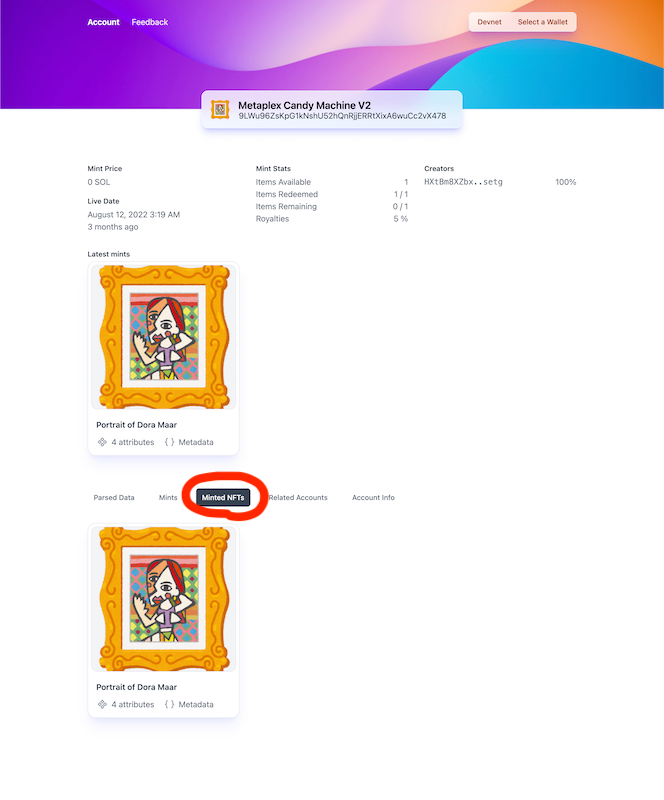
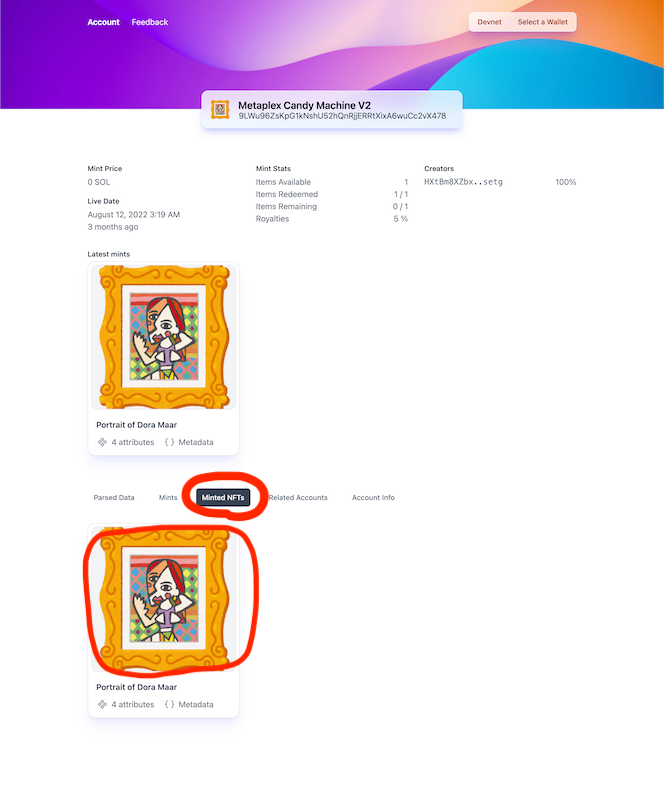
docs: add command

Changed region(s): [[0.1205, 0.6562, 0.3916, 0.875]]

diff --git a/cli/metaplex_sugar/README.md b/cli/metaplex_sugar/README.md
@@ -11,8 +11,53 @@ Mint NFT(s) CLI Tools by Metaplex.
 ## Run
 It's depend on version of Sugar. Check README at each directory.
 
-Sugar doesn't show mint address. Look at mint address in Signature. e.g.  
-![sample mint](https://github.com/256hax/solana-anchor-react-minimal-example/blob/main/cli/metaplex_sugar/docs/example_mint_address.png?raw=true)
+## NFT Mint Address
+Sugar doesn't show mint address. Check mint address from Solana Explorer or Solaneyes.
+
+Solana Explorer (Search "Mint" in page):  
+![Solana Explorer mint](https://github.com/256hax/solana-anchor-react-minimal-example/blob/main/cli/metaplex_sugar/docs/screenshot/example_mint_address.png?raw=true)
+
+Solaneyes (Select "Minted NFTs" > Click NFT > Mint Address appear top of page):  
+![Solaneyes mint](https://github.com/256hax/solana-anchor-react-minimal-example/blob/main/cli/metaplex_sugar/docs/screenshot/example_Solaneyes_minted_nft.png?raw=true)
+
+## Command
+```
+% sugar -h
+sugar-cli 1.1.0
+Command line tool for creating and managing Metaplex Candy Machines.
+
+USAGE:
+    sugar [OPTIONS] <SUBCOMMAND>
+
+OPTIONS:
+    -h, --help                     Print help information
+    -l, --log-level <LOG_LEVEL>    Log level: trace, debug, info, warn, error, off
+    -V, --version                  Print version information
+
+SUBCOMMANDS:
+    bundlr            Interact with the bundlr network
+    collection        Manage the collection on the candy machine
+    create-config     Interactive process to create the config file
+    deploy            Deploy cache items into candy machine config on-chain
+    freeze            Commands for the Candy Machine Freeze feature
+    hash              Generate hash of cache file for hidden settings
+    help              Print this message or the help of the given subcommand(s)
+    launch            Create a candy machine deployment from assets
+    mint              Mint one NFT from candy machine
+    reveal            Reveal the NFTs from a hidden settings candy machine
+    show              Show the on-chain config of an existing candy machine
+    sign              Sign one or all NFTs from candy machine
+    thaw              Thaw a NFT or all NFTs in a candy machine
+    unfreeze-funds    Unlock treasury funds after freeze is turned off or expires
+    update            Update the candy machine config on-chain
+    upload            Upload assets to storage and creates the cache config
+    validate          Validate JSON metadata files
+    verify            Verify uploaded data
+    withdraw          Withdraw funds from candy machine account closing it
+```
+
+## Note
+I recommend delete cache.json if you re-run Sugar.
 
 ## Reference
 - [Sugar Metaplex Docs](https://docs.metaplex.com/developer-tools/sugar/)
